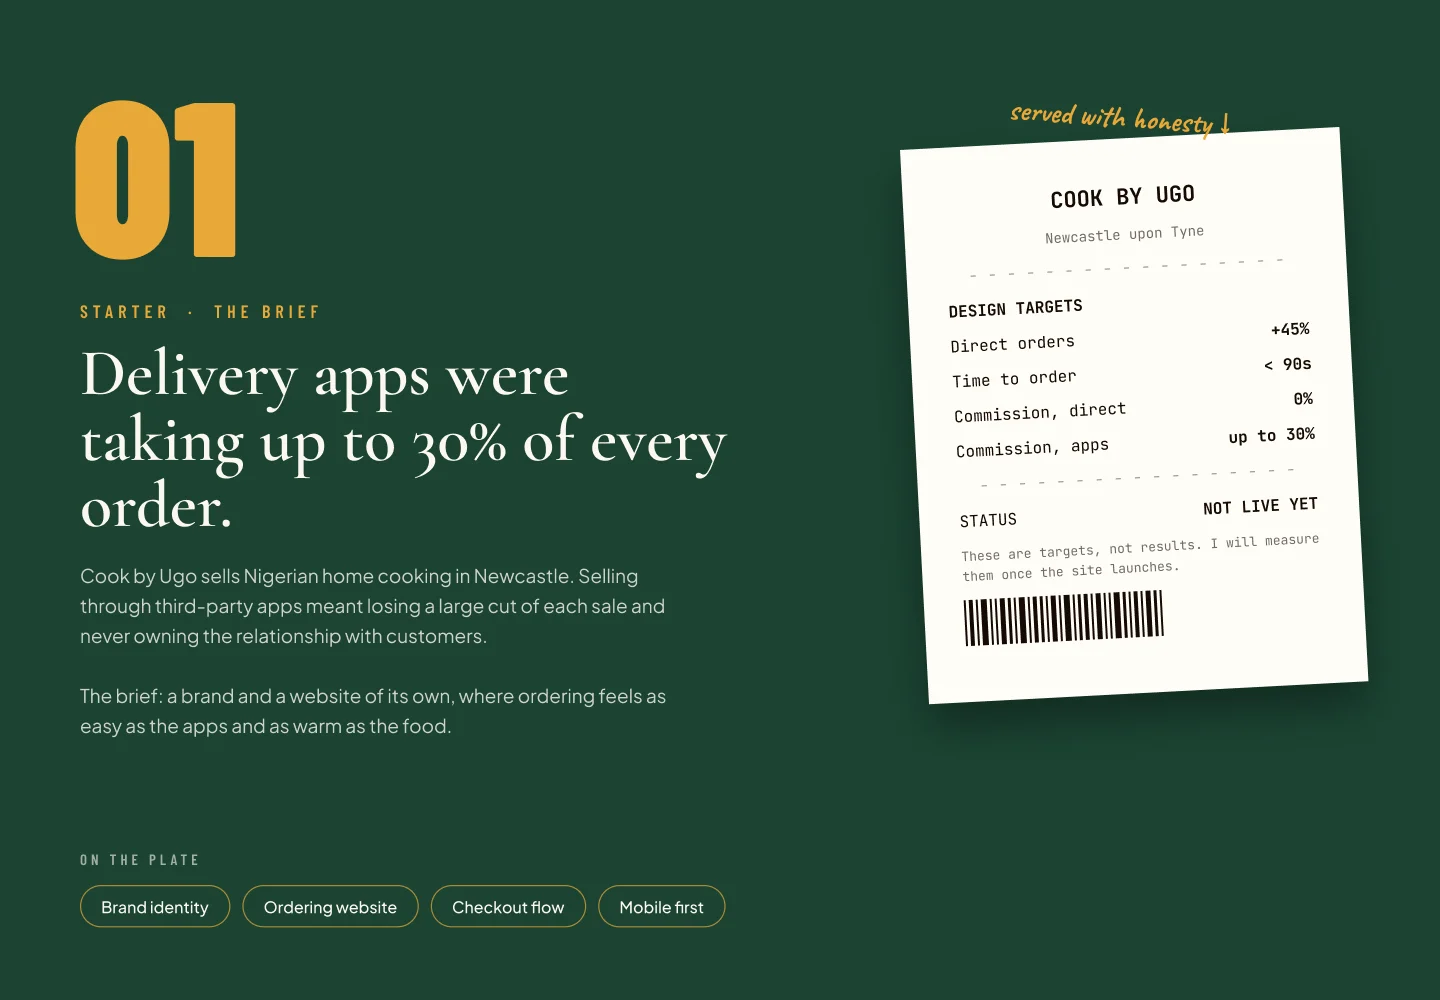
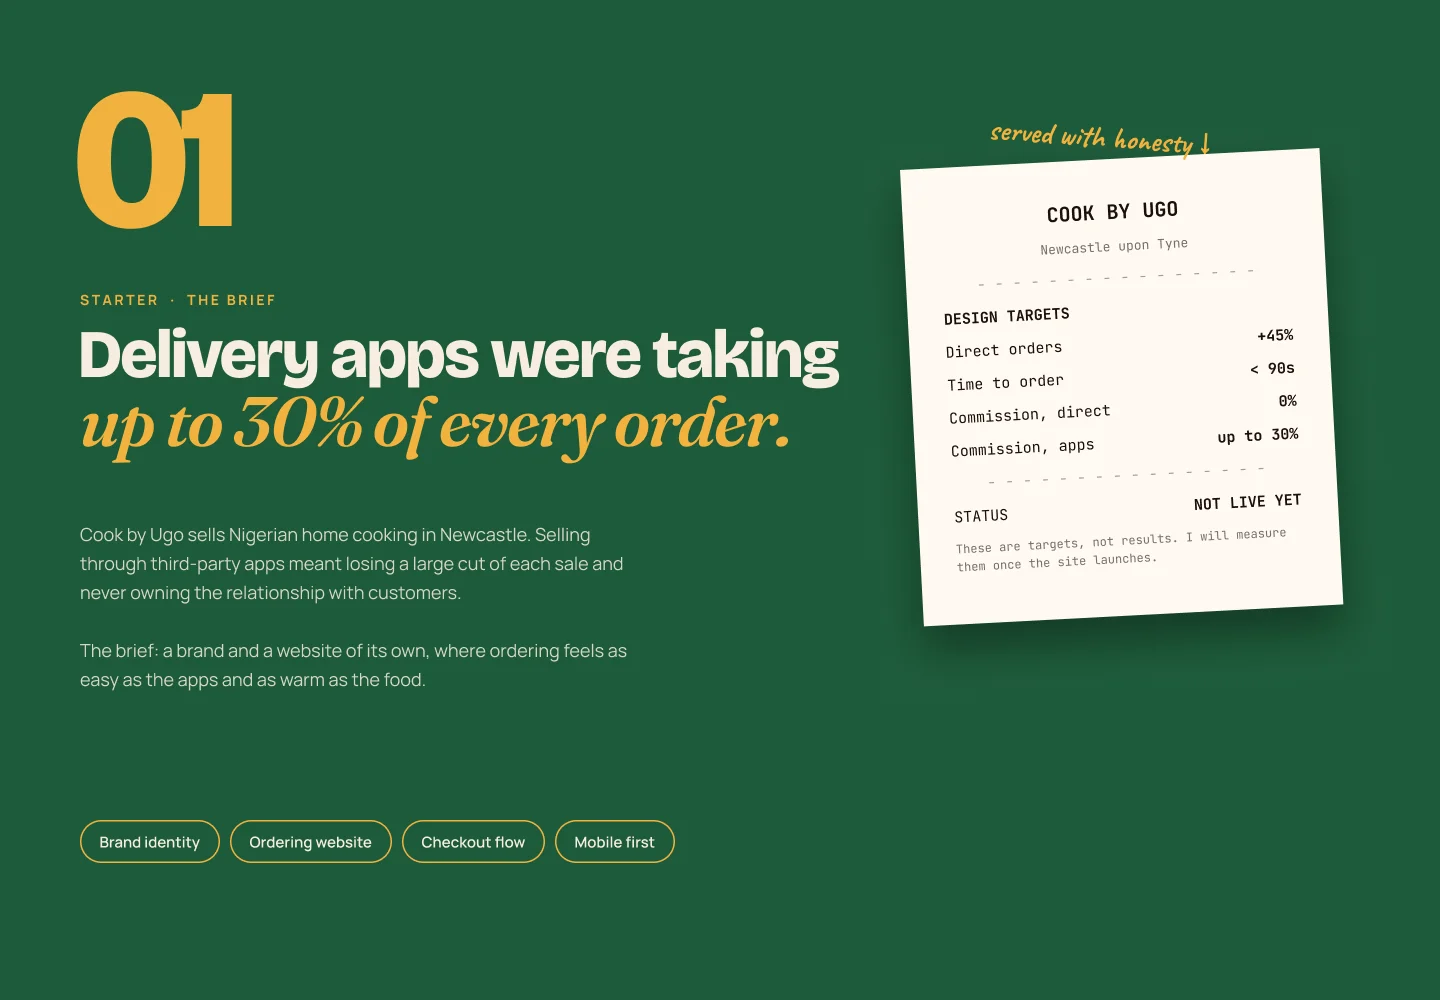
content: Cook by Ugo v3 redesign case study and thumbnail
Claude-Session: https://claude.ai/code/session_01Bv81ohrqJf7AomPrv3PV4s

diff --git a/src/pages/ProjectDetails.jsx b/src/pages/ProjectDetails.jsx
@@ -213,7 +213,7 @@ export default function ProjectDetails() {
       role: "UI/UX & Brand Designer",
       heroImg: "/cook-by-ugo-thumbnail.webp",
       liveLink: null,
-      sliceCount: 9,
+      sliceCount: 10,
       overview: "Cook by Ugo brings authentic Nigerian home cooking to Newcastle upon Tyne. I designed their direct ordering website and brand identity, giving customers a smooth way to browse dishes, customize spice levels, and order takeout in minutes.",
       problem: "Third-party delivery apps were taking up to 30% commission on every order and locking away customer data. The restaurant needed their own ordering website that made ordering takeout quick and effortless, while showing off the authentic warmth of West African hospitality.",
       deliverables: ["Brand Identity System", "Direct Ordering Website", "Protein & Side Picker", "3-Step Checkout Drawer", "Mobile First UI"],
@@ -233,8 +233,8 @@ export default function ProjectDetails() {
           rationale: "Nobody wants to fill out a long form when they are hungry. Checkout is three steps in one drawer: delivery details with an ASAP or scheduled time, payment by card or on delivery, then confirmation. A WhatsApp button stays on screen for people who would rather message."
         },
         {
-          pillar: "03. Warm branding with modern polish",
-          rationale: "I blended deep forest greens and warm gold accents with clean, modern typography. It honors Nigerian culinary traditions while presenting the business as a top-tier, trustworthy local kitchen."
+          pillar: "03. A modern brand with Lagos colour",
+          rationale: "I redesigned the first dark, template-like version into a warm cream base with jollof red, palm gold, ewedu green and adire indigo, plus aso-oke bands, adire dots and arch-shaped photos. Every text colour pair passes WCAG AA, and three fonts replace the original five."
         }
       ],
       process: [
